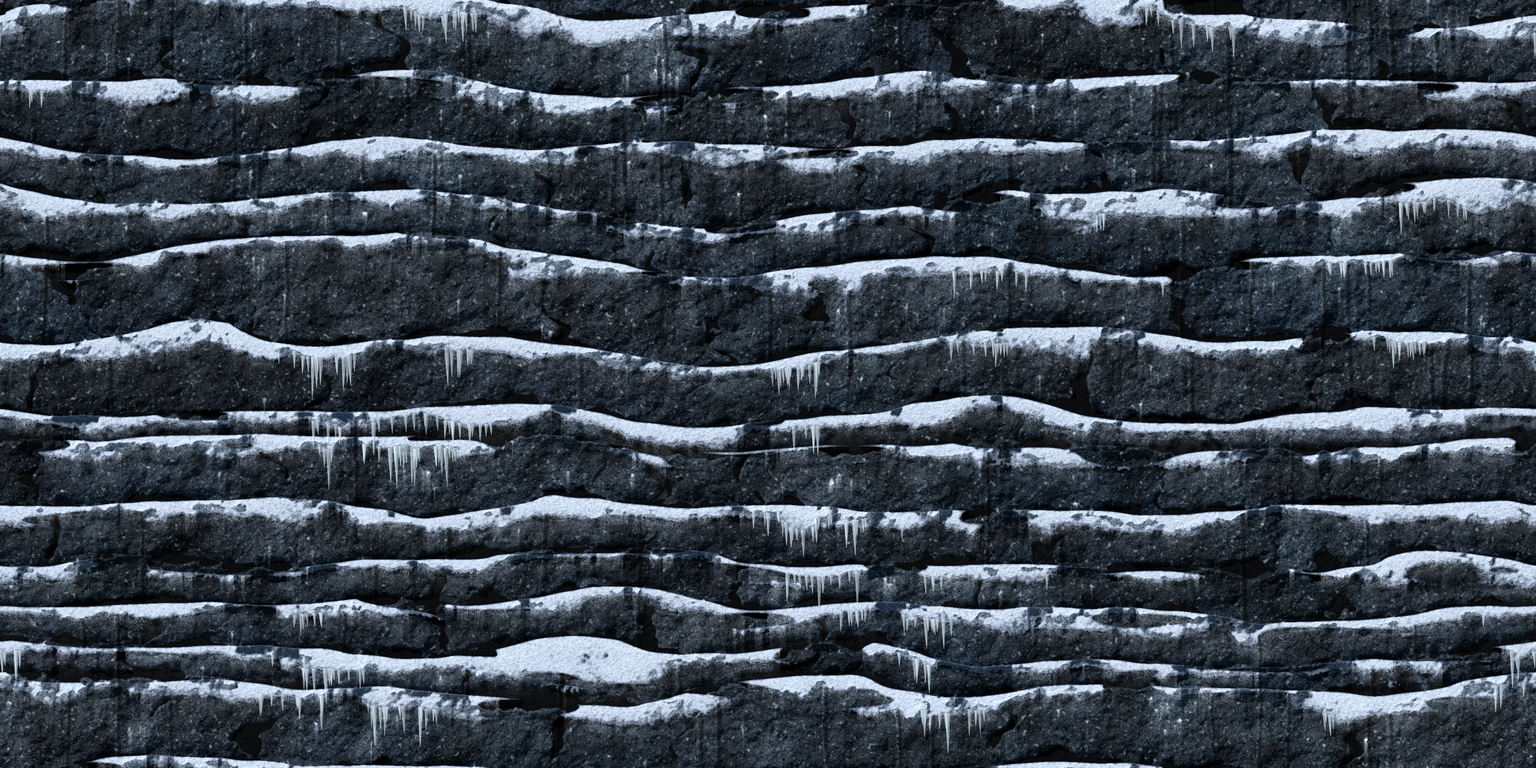
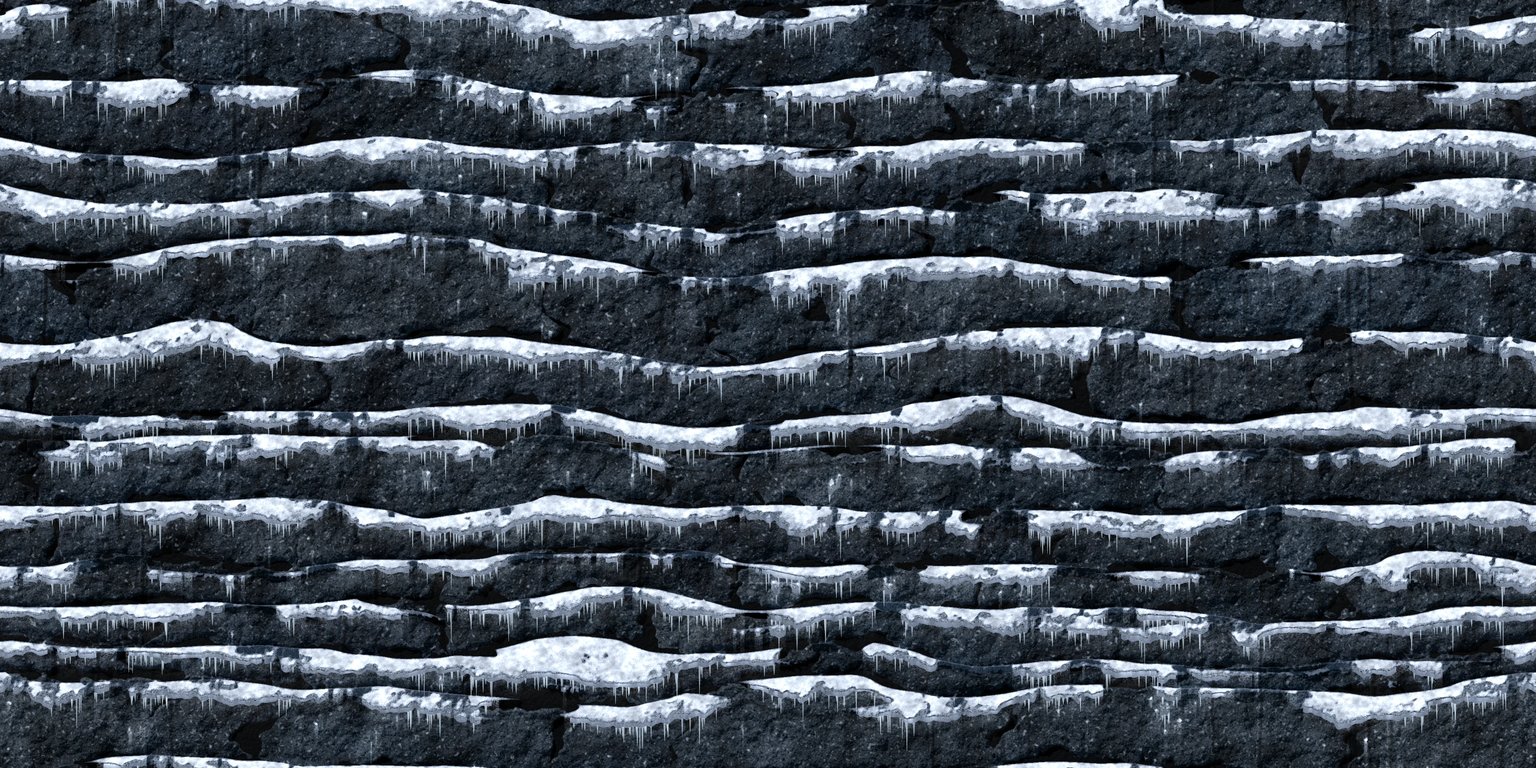
Версия 2026.11.07-131: Арктика по критику r39 — белый пухлый снег на уступах с бахромой сосулек
desalt_rock.py: свес снега вниз от кромки полос с холодной тенью снизу, комья на снегу, сплошная бахрома мелких сосулек
под большей частью свесов вместо редких гроздей, вертикальных швов вдвое меньше. Лунный свет темы ярче (порода прежняя —
gain уменьшен), снег холоднее; исправлен потолок яркости снега (самый яркий снег гас до 200). Снег в кадре p90 204 → 228.

Claude-Session: https://claude.ai/code/session_01JvXrYdG1XCH4i3GESsQzbh

diff --git a/js/terrain_visual.js b/js/terrain_visual.js
@@ -279,7 +279,7 @@ function capDepth(TD, m, i, x, y, t, W, H) {
 const SNOW_ROCK_L = [[0, 0], [190, 190], [255, 236]];
 function snowRockL(L) {
   for (let i = 1; i < SNOW_ROCK_L.length; i++) { const a = SNOW_ROCK_L[i - 1], b = SNOW_ROCK_L[i]; if (L <= b[0]) return a[1] + (b[1] - a[1]) * (L - a[0]) / (b[0] - a[0]); }
-  return 200;
+  return SNOW_ROCK_L[SNOW_ROCK_L.length - 1][1];   /* v131: выше таблицы — потолок 236 (было 200: самый яркий снег гас ниже просто яркого) */
 }
 
 /* v110 (критик r36: горящих окон 8,6–10,6 % фасада при ~5 % в эталоне; «битые» окна — у погашенного горящего окна оставались
@@ -1299,7 +1299,10 @@ function buildTerrainVisual(T, theme, map, raster, waterY) {
             bl = bl * (1 - depthK) + dt[2] * depthK * 1.05;
           }
         }
-        if (S.snowy && mt === 2 && !o.cap) { const L = 0.299 * r + 0.587 * g + 0.114 * bl; if (L > 190) { const k = snowRockL(L) / L; r *= k; g *= k; bl *= k; } }   // снег на уступах без пересвета
+        if (S.snowy && mt === 2 && !o.cap) { const L = 0.299 * r + 0.587 * g + 0.114 * bl;
+          if (L > 150) {   /* v131 (критик r39: «снег на уступах серый — B 200 при 220»): снег холоднее и белее (яркость — фоновый свет темы, themes.js) */
+            const q = Math.min(1, (L - 150) / 50), w = q * 0.55; r += (L * 0.95 - r) * w; g += (L * 0.99 - g) * w; bl += (L * 1.08 - bl) * w; }
+          const L2 = 0.299 * r + 0.587 * g + 0.114 * bl; if (L2 > 190) { const k = snowRockL(L2) / L2; r *= k; g *= k; bl *= k; } }   // снег на уступах без пересвета
         const j = i * 4; px[j] = r; px[j + 1] = g; px[j + 2] = bl; px[j + 3] = 255;
         if (o.tT && (!o.emit || o.emitTex)) refF[i] = texRefId(o, x, y);   /* светящиеся окна фасада — тоже из родной текстуры: при приближении рамы и шторы чёткие */
         if (o.ga > 0 && gimg) { gimg[j] = o.gr; gimg[j + 1] = o.gg; gimg[j + 2] = o.gb; gimg[j + 3] = o.ga; }

diff --git a/js/themes.js b/js/themes.js
@@ -67,10 +67,10 @@ const THEMES = {
       strata: ['#b0c1d6', '#a3b5cc', '#bccbdd', '#98abc3', '#c3d0e0'], band: 30, bandSharp: 0.2,
       rock: ['#7c8cac', '#6e7e9e', '#8898b6', '#647494', '#9aa8c2'], rockDirt: true, rockBand: 62, rim: '#b0c8ff',
       pebbles: ['#c2cfdd', '#a9b8ca', '#d5dee8'],
-      outline: '#16233a', veins: null, ceiling: 'icicles', capMats: [1, 2, 7], tex: { rock: 'rock_arctic', cave: 'cave_arctic', cap: 'cap_snow', gain: [1.51, 1.44, 1.31] /* v73: оттенок камня по эталону — в самой текстуре (arctic_snow_relief.py --rock-tint), канальный gain красил снег; v44: яркость пород по эталону (cmatch) */ },   // v44: тонкие пласты гранита, снежные уступы с сосульками (make_masonry.py strata)
+      outline: '#16233a', veins: null, ceiling: 'icicles', capMats: [1, 2, 7], tex: { rock: 'rock_arctic', cave: 'cave_arctic', cap: 'cap_snow', gain: [1.31, 1.27, 1.2] /* v131: ÷ на свет ярче (ambient); v73: оттенок камня по эталону — в самой текстуре (arctic_snow_relief.py --rock-tint), канальный gain красил снег; v44: яркость пород по эталону (cmatch) */ },   // v44: тонкие пласты гранита, снежные уступы с сосульками (make_masonry.py strata)
     },
     scatter: ['rockSnow', 'iceCrystal', 'bushSnow', 'rockSnow'],
-    weather: 'snow', birds: false, ambient: '#c3cde6', ambientSound: 'snow',
+    weather: 'snow', birds: false, ambient: '#e1e8fa' /* v131 (критик r39: «снег на уступах серый — p90 204 при 230»): лунный свет ярче — снег (у потолка 236) светлее, порода прежняя (gain ÷1,15); было #c3cde6 */, ambientSound: 'snow',
   },
   volcano: {
     id: 'volcano',

diff --git a/index.html b/index.html
@@ -114,7 +114,7 @@
         </div>
       </div>
     </div>
-    <footer class="menu-footer"><span id="game-version">ВЕРСИЯ 2026.11.07-130</span><span>ПЛАНИРУЙ ХОД. МЕНЯЙ ЛАНДШАФТ.</span><span class="footer-status"><i></i> ГОТОВ К БОЮ</span></footer>
+    <footer class="menu-footer"><span id="game-version">ВЕРСИЯ 2026.11.07-131</span><span>ПЛАНИРУЙ ХОД. МЕНЯЙ ЛАНДШАФТ.</span><span class="footer-status"><i></i> ГОТОВ К БОЮ</span></footer>
   </section>
 
   <!-- Онлайн -->

diff --git a/dev/tools/desalt_rock.py b/dev/tools/desalt_rock.py
@@ -1,6 +1,8 @@
 """Убирает белую «соль» на тёмной породе (критик r36, Арктика: «меньше белых точек-соли в 1 px»).
 
 python dev/tools/desalt_rock.py <родная.webp> <выход.png> [--k 7] [--thr 22] [--keep 0.15] [--dark 95] [--gain 0.86] [--frost 0.7] [--snowk 1.3] [--icicles 0.14] [--seams 1]
+    [--seamk 1] [--lumps 0] [--overhang 0] [--fringe 0]      (v131: --snowk 1.45 --icicles 0 --seamk 0.5 --lumps 1 --overhang 18 --fringe 0.6;
+    исходник — родная до v113: git show 1d59b26^:assets/tex/native/rock_arctic.webp)
 затем: python dev/make_native.py <выход.png> <имя> --no-match --lossy --quality 90   (малая — точное уменьшение родной)
 
 Крупинки — светлые пятнышки уже k пикселей родной текстуры, ярче фона больше чем на thr (белый «цилиндр»: L − открытие L):
@@ -38,6 +40,8 @@ def main():
     ap.add_argument('--gain', type=float, default=0.86); ap.add_argument('--frost', type=float, default=0.7)
     ap.add_argument('--frostd', type=float, default=24); ap.add_argument('--snowL', type=float, default=108)
     ap.add_argument('--snowk', type=float, default=1.3); ap.add_argument('--icicles', type=float, default=0.14); ap.add_argument('--seams', type=int, default=1)
+    ap.add_argument('--seamk', type=float, default=1.0); ap.add_argument('--overhang', type=float, default=0); ap.add_argument('--fringe', type=float, default=0)
+    ap.add_argument('--lumps', type=float, default=0)
     a = ap.parse_args()
     img = np.asarray(Image.open(a.src).convert('RGB'), dtype=np.float32)
     L = img @ np.array([0.299, 0.587, 0.114], np.float32)
@@ -72,7 +76,7 @@ def main():
     if a.seams:
         H, W = L.shape; rng = np.random.default_rng(13); n = 0
         rock = ~snow
-        for _ in range(int(W / 470 * 13)):
+        for _ in range(int(W / 470 * 13 * a.seamk)):
             x0, y0 = int(rng.integers(0, W)), int(rng.integers(0, H))
             if not rock[y0, x0]: continue
             ys = [y0]
@@ -90,6 +94,59 @@ def main():
                     if abs(dxx) < wd: q = 1 - abs(dxx) / wd; out[yw, xw] = out[yw, xw] * (1 - 0.42 * q * q * (3 - 2 * q))   # глубже к середине, ΔL −15…−20
                     elif -wd - 4 < dxx <= -wd: out[yw, xw] = np.minimum(255, out[yw, xw] * 1.22 + 4)   # светлая фаска слева (свет сверху слева)
         print('seams: %d' % n)
+    if a.lumps > 0:   # v131 (критик r39: «снег на уступах серый и плоский — σ 18 при 27, p90 204 при 230»): комья 3–8 ед. на снегу
+        H, W = L.shape; rng = np.random.default_rng(17)
+        def gn2(sg):
+            g = nd.gaussian_filter(rng.standard_normal((H, W)).astype(np.float32), sg, mode='wrap'); return (g - g.mean()) / (g.std() + 1e-9)
+        lump = 0.6 * gn2(10) + 0.4 * gn2(4); gy_ = np.roll(lump, 2, 0) - np.roll(lump, -2, 0)   # свет сверху: верх комка светлее
+        msk = np.clip((Ls - a.snowL) / 25, 0, 1)[..., None]
+        out = out * (1 + a.lumps * (0.10 * lump + 0.12 * gy_)[..., None] * msk)
+    if a.overhang > 0:   # v131 (критик r39: «нет пухлого свеса с синей тенью»): свес снега вниз от нижней кромки полос
+        H, W = L.shape; rng = np.random.default_rng(23)
+        Ls2 = nd.gaussian_filter(out @ np.array([0.299, 0.587, 0.114], np.float32), 4, mode='wrap'); snow2 = Ls2 > a.snowL
+        thick = snow2.copy()
+        for q in range(1, 13): thick &= np.roll(snow2, q, 0)
+        edge = thick & ~np.roll(snow2, -1, 0)
+        n1 = nd.gaussian_filter1d(rng.standard_normal(W).astype(np.float32), 30, mode='wrap'); n1 /= np.abs(n1).max() + 1e-9
+        n2 = nd.gaussian_filter1d(rng.standard_normal(W).astype(np.float32), 5, mode='wrap'); n2 /= np.abs(n2).max() + 1e-9
+        ovh = a.overhang * np.clip(0.75 + 0.45 * n1 + 0.2 * n2, 0.25, 1.5)            # толщина свеса по столбцу, px родной
+        under = np.array([104, 118, 146], np.float32)                                 # холодная тень снизу (до gain темы)
+        ey, ex = np.nonzero(edge); cnt = len(ey)
+        Sm = nd.gaussian_filter(out, (1.0, 5.0, 0), mode='wrap')                      # цвет снега над кромкой, сглаженный вдоль x — без полос
+        grain = nd.gaussian_filter(rng.standard_normal((H, W)).astype(np.float32), 0.9, mode='wrap'); grain /= grain.std() + 1e-9
+        D = np.full((H, W), 1e6, np.float32); C = np.zeros((H, W, 3), np.float32); hmap = np.broadcast_to(ovh[None, :], (H, W))
+        for k in range(1, int(ovh.max()) + 2):                                        # свес: строка k под кромкой берёт цвет на 4 px выше кромки
+            Ek = np.roll(edge, k, 0) & (k <= hmap + 1) & (D > k)
+            if not Ek.any(): continue
+            src = np.roll(Sm, k + 4, 0)
+            t = np.clip(k / np.maximum(hmap, 1), 0, 1)[..., None]
+            col = src * (1 - 0.6 * t * t) + under * (0.6 * t * t)                       # к низу свеса — в холодную тень, скругление
+            D = np.where(Ek, k, D); C = np.where(Ek[..., None], col, C)
+        cov = np.clip(hmap - D + 1, 0, 1) * (D < 1e5)
+        C += (grain * 5)[..., None]
+        out = out * (1 - cov[..., None]) + C * cov[..., None]
+        print('overhang: edge columns %d' % cnt)
+        if a.fringe > 0:   # бахрома мелких сосулек под свесом: шаг 10–20 px родной, длина 12–50 px (изредка 80), под fringe доли кромки
+            g = nd.gaussian_filter1d(rng.standard_normal(W).astype(np.float32), 60, mode='wrap'); thr = np.quantile(g, 1 - a.fringe)
+            bottoms = {}
+            for y0, x0 in zip(ey, ex): bottoms.setdefault(x0, []).append(y0)
+            nf = 0
+            for x0, ys in bottoms.items():
+                if g[x0] < thr: continue
+                for y0 in ys:
+                    if not snow2[(y0 - 3) % H, x0]: continue
+                    if rng.random() > 1 / 14: continue                                 # в среднем шаг ~14 px
+                    u = rng.random(); Lc = rng.uniform(12, 30) if u < 0.7 else rng.uniform(30, 50) if u < 0.95 else rng.uniform(50, 80)
+                    yb = y0 + int(ovh[x0]); w0 = rng.uniform(3, 6); op = rng.uniform(0.7, 0.9); nf += 1
+                    for k in range(int(Lc) + 1):
+                        t = k / Lc; hw = w0 / 2 * (1 - t) ** 0.9 + 0.3; y = (yb + k) % H
+                        for dx in range(int(-hw - 1), int(hw + 2)):
+                            xx = x0 + dx; cov = np.clip(hw - abs(dx) + 0.5, 0, 1)
+                            if cov <= 0: continue
+                            side = dx / max(hw, 0.5)
+                            col = np.array([205, 228, 248], np.float32) * (1 - max(0, side) * 0.32) + np.array([30, 20, 6], np.float32) * max(0, -side)
+                            al = op * (0.8 + 0.2 * t) * cov; xw = xx % W; out[y, xw] = out[y, xw] * (1 - al) + col * al
+            print('fringe icicles: %d' % nf)
     if a.icicles > 0:
         H, W = L.shape; rng = np.random.default_rng(9)
         g = nd.gaussian_filter(rng.standard_normal((H, W)).astype(np.float32), 110, mode='wrap')   # v121: гроздьями (критик r38: «по 1–3 под каждой кромкой» → 4–6 гроздьев, ≥ 60 % кромок без сосулек)

diff --git a/dev/reviews/r29.md b/dev/reviews/r29.md
@@ -327,3 +327,10 @@ v130 (по r39, пираты): палубы чистые — «зелёные м
 как прежде — у остальных карт всё на местах). Иллюминаторы латунные (dev/tools/brass_sprite.py: металл спрайта — по яркости
 из шкалы латуни с поправкой на закатный свет): в кадре кольцо (125,75,23) → (144,111,61), p95 L 150 → 165. Море у борта светлее
 (sea.mean [43,78,71] → [62,108,104], glint0 0,45 → 0,75): (32,47,48), L50 38 → (43,61,63), 50 (эталон 50).
+v131 (по r39, Арктика): снег на уступах — пухлый свес вниз от кромки полос (3–4 ед., нижний край волной, к низу — в холодную
+тень), комья на снегу, сплошная бахрома мелких сосулек под ~60 % свесов (шаг ~3,5 ед., длина 3–12 ед., изредка до 20) вместо
+редких гроздей длинных, вертикальных швов вдвое меньше (dev/tools/desalt_rock.py --snowk 1,45 --icicles 0 --seamk 0,5 --lumps 1
+--overhang 14 --fringe 0,6 от родной до v113). Яркость снега упиралась в лунный фоновый свет темы (×0,76–0,9): свет ярче
+(ambient #c3cde6 → #e1e8fa), порода прежняя (gain ÷1,15); снег на уступах холоднее; исправлен потолок снега snowRockL (выше
+таблицы возвращал 200 — самый яркий снег гас ниже просто яркого). В кадре снег p50/p90/p99 171/204/211 → 186/228/232
+(эталон 190/230/245), σ 18 → 25 (27), синий 201 → 215 (220); порода (32,39,55) — без изменений.
